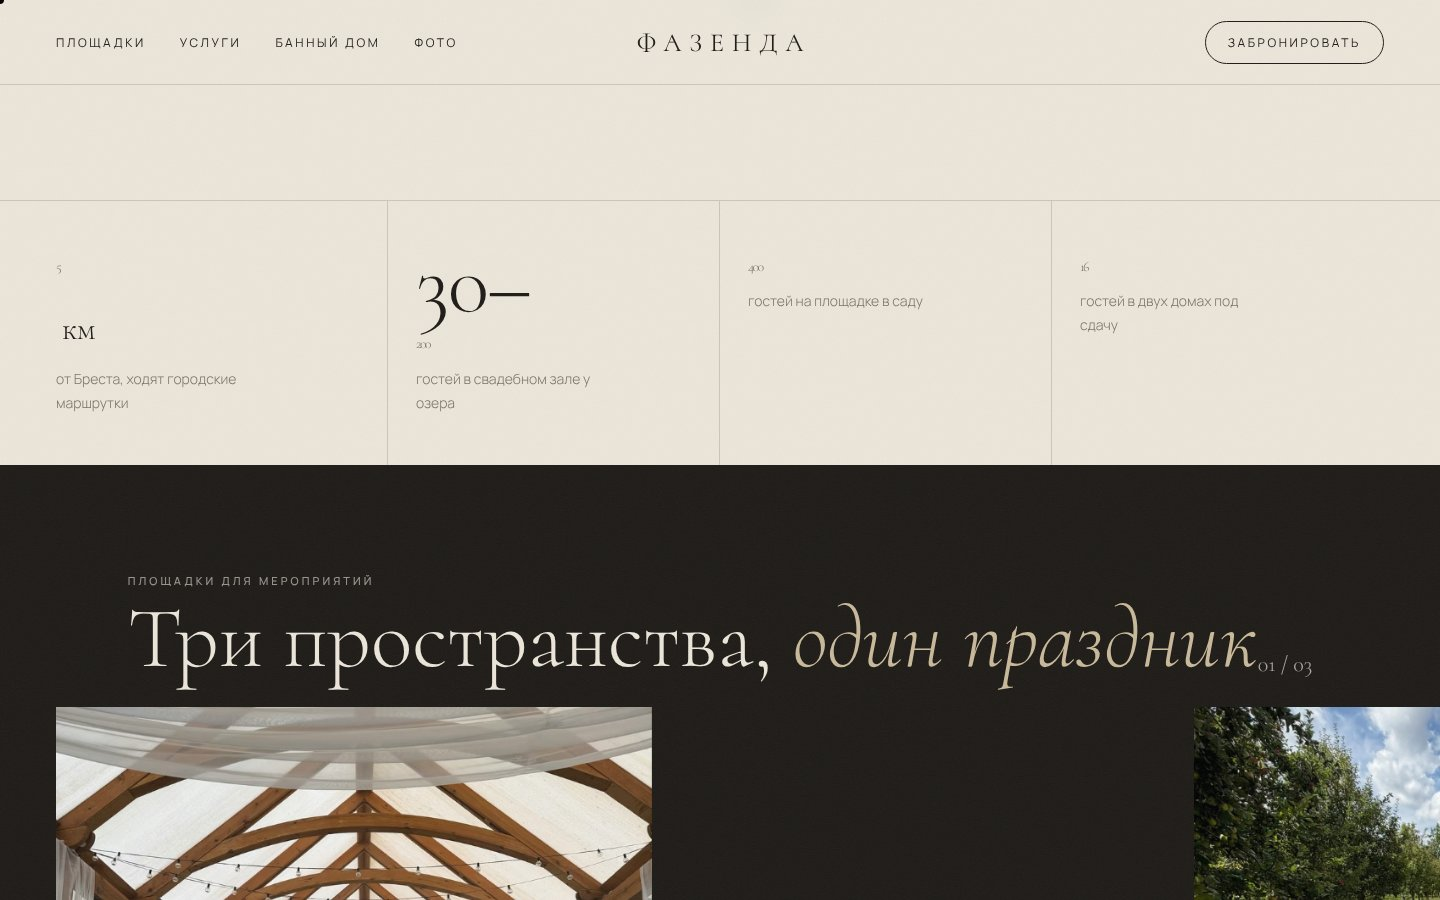
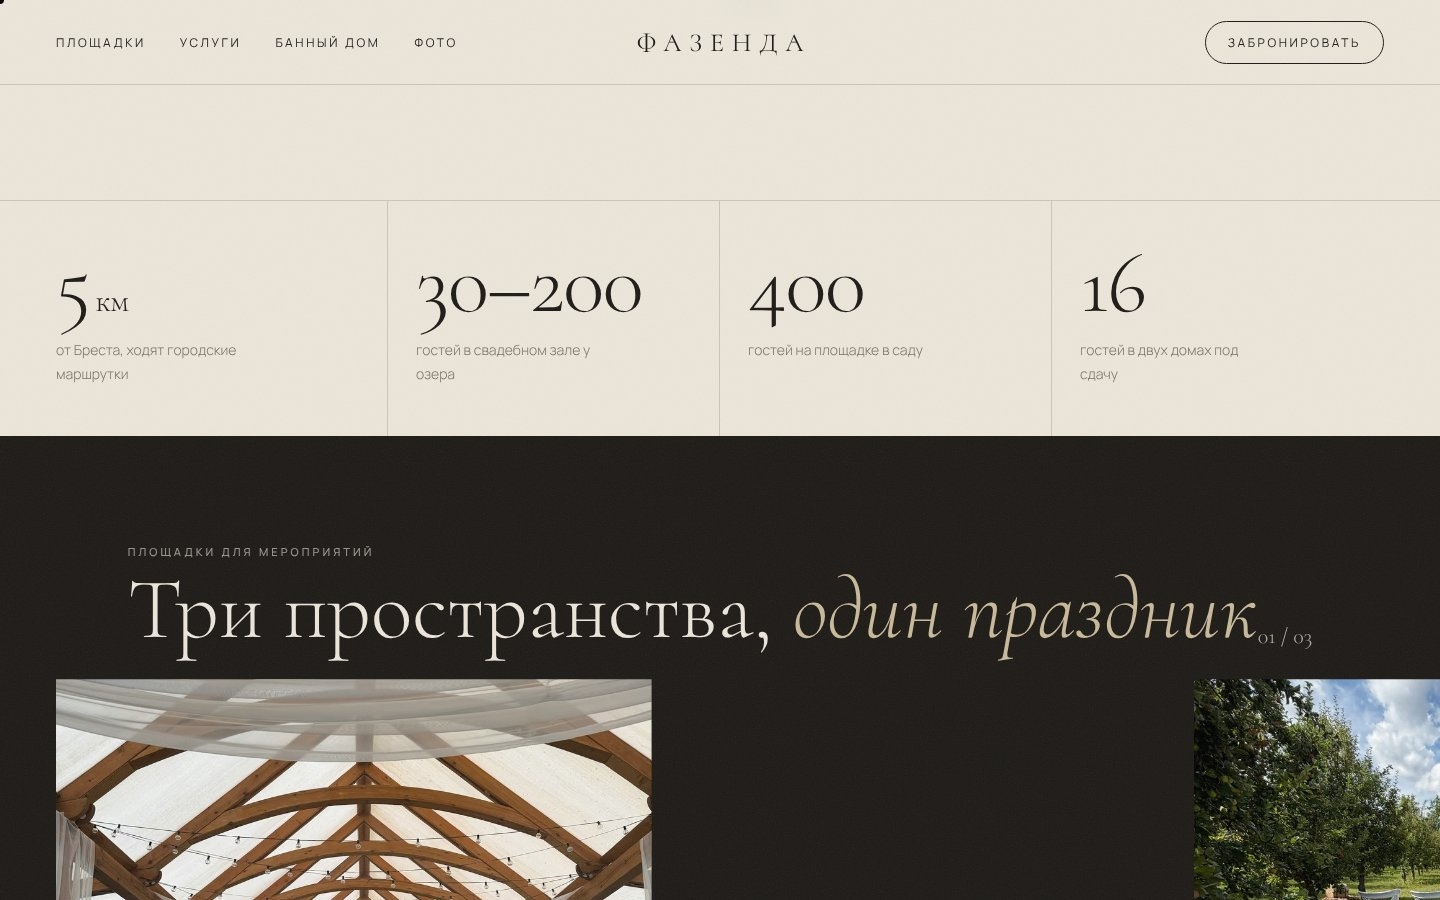
Fix figure numbers shrinking (caption style hit the counter)
Claude-Session: https://claude.ai/code/session_01BrAaaN6dxRRCs6t6bjMTZf

diff --git a/fazenda/site/index.html b/fazenda/site/index.html
@@ -102,7 +102,7 @@ picture img{opacity:0;transition:opacity 1.2s var(--ease)}picture.is-loaded img{
 .fig:last-child{border-right:0}
 .fig b{display:block;font:300 clamp(54px,6vw,104px)/.9 Cormorant;letter-spacing:-.02em}
 .fig b small{font-size:.38em;letter-spacing:0;margin-left:6px}
-.fig span{display:block;margin-top:16px;font-size:14px;color:var(--muted);max-width:14em}
+.fig>span{display:block;margin-top:16px;font-size:14px;color:var(--muted);max-width:14em}
 
 /* площадки — горизонтальный скролл */
 .venues{position:relative;background:var(--ink);color:var(--bone)}

diff --git a/fazenda/variant-15-maison.html b/fazenda/variant-15-maison.html
@@ -98,7 +98,7 @@ picture img{opacity:0;transition:opacity 1.2s var(--ease)}picture.is-loaded img{
 .fig:last-child{border-right:0}
 .fig b{display:block;font:300 clamp(54px,6vw,104px)/.9 Cormorant;letter-spacing:-.02em}
 .fig b small{font-size:.38em;letter-spacing:0;margin-left:6px}
-.fig span{display:block;margin-top:16px;font-size:14px;color:var(--muted);max-width:14em}
+.fig>span{display:block;margin-top:16px;font-size:14px;color:var(--muted);max-width:14em}
 
 /* площадки — горизонтальный скролл */
 .venues{position:relative;background:var(--ink);color:var(--bone)}
